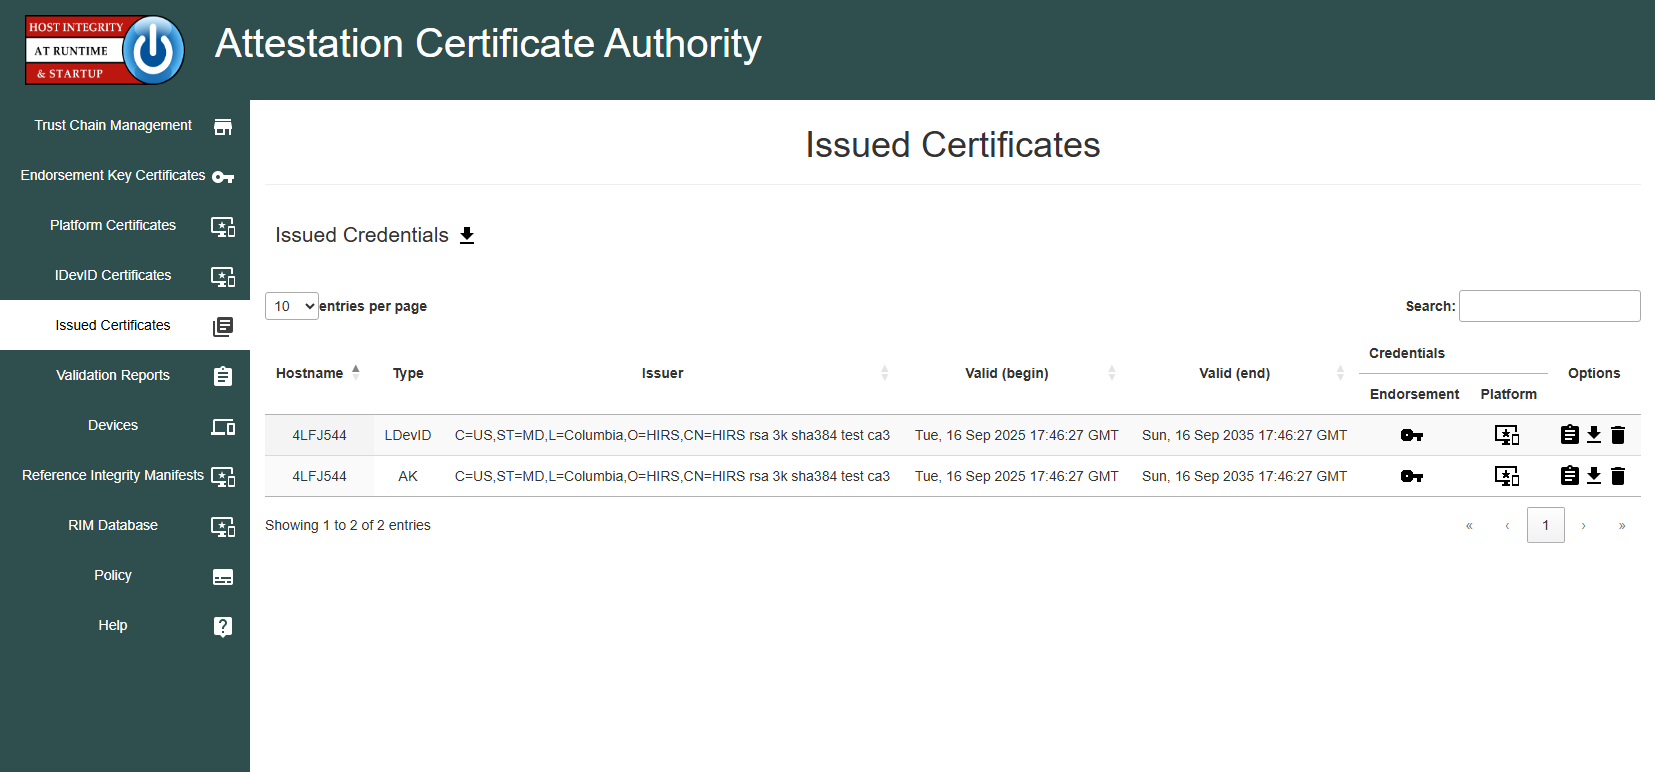
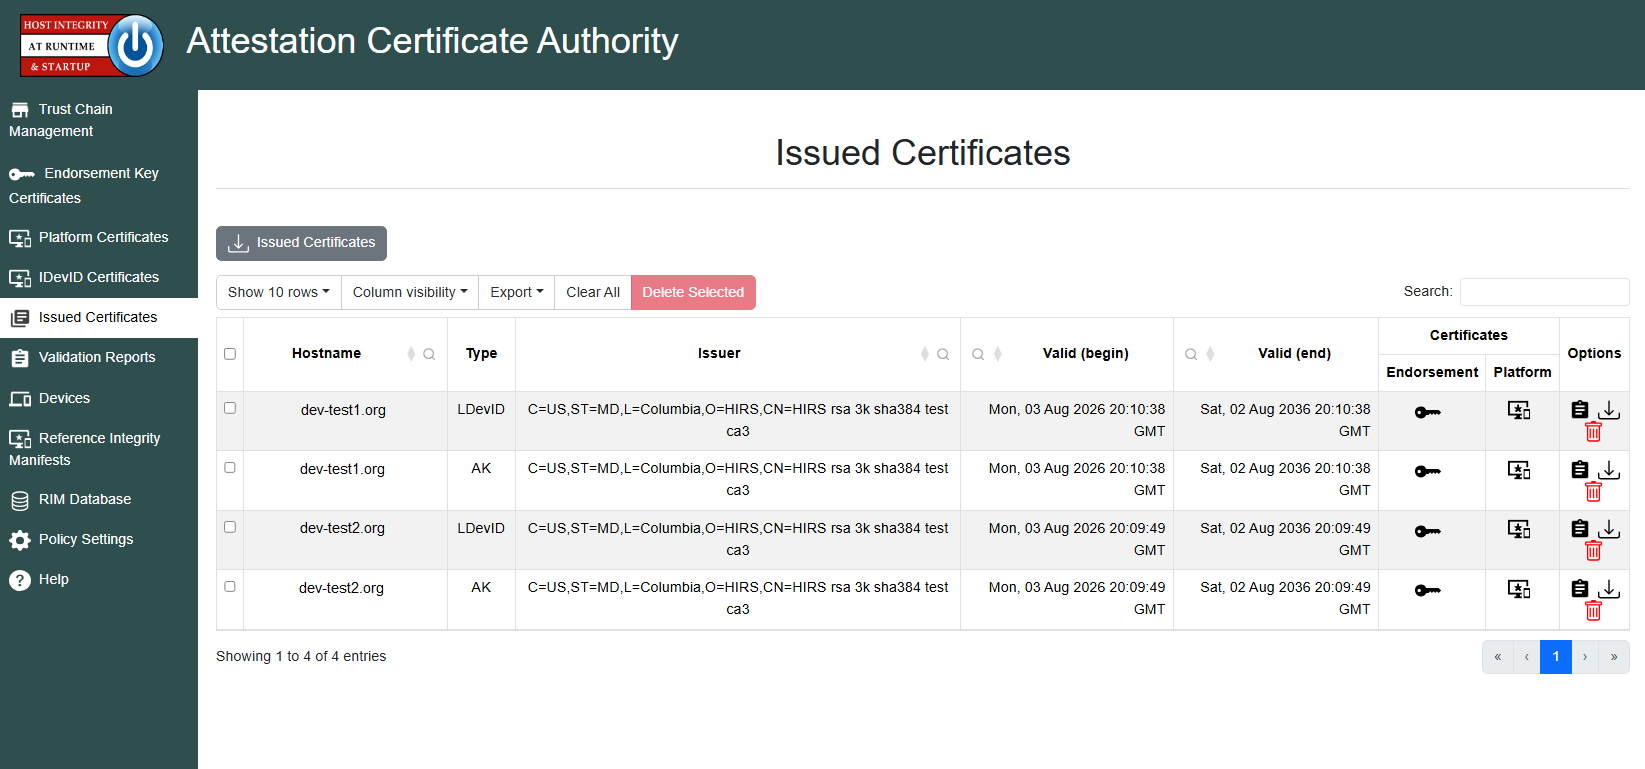
update help docs portal images and component rim page

diff --git a/docs/background/inputs/component.md b/docs/background/inputs/component.md
@@ -143,15 +143,52 @@ The following table shows the relationship between some of the common formats:
   </div>
 </div>
 
-## IETF CoSWID vs TCG Component RIM CoSWID
+## IETF CoSWID
 
-A TCG Component RIM CoSWID is an augmented, specialized flavor of an IETF CoSWID.
-The IETF CoSWID is the base blueprint: It is an industry-wide, generic CBOR structure designed to 
-define any software or firmware footprint of a component. The TCG CoSWID is the extension: The Trusted 
-Computing Group (TCG) took that exact IETF CoSWID map and used built-in CBOR extension points to add 
-specialized hardware attributes (like specific SPDM platform registers or hardware vendor IDs).
+The IETF Concise Software Identification (CoSWID) defined by 
+[RFC 9393 :fontawesome-solid-external-link:](https://datatracker.ietf.org/doc/html/rfc9393){:target="_blank"}
+is a CBOR-encoded, size-optimized reformulation of the 
+ISO/IEC 19770-2 SWID tag. It carries the same semantic model - a globally unique tag identifying
+a software product, its version, the entities responsible for it (creator, distributor, etc.), 
+and optionally payload/evidence data such as file manifests with hashes - but replaces SWID's 
+verbose XML with CDDL-defined CBOR so tags are small enough for constrained devices and can be 
+COSE-signed. It's the base "what software is this" descriptor that other attestation specs 
+build on.
 
-## IETF CoRIM Structure
+## TCG Component RIM CoSWID
+
+The TCG Reference Integrity Manifest family defines how a platform/component vendor publishes the 
+*golden* measurements a Verifier should expect from a TPM-anchored device. The PC Client RIM spec
+defines a 
+[SWID/CoSWID *binding* :fontawesome-solid-external-link:](https://trustedcomputinggroup.org/resource/tcg-component-rim-binding-for-swid-and-coswid/){:target="_blank"}
+: the RIM is expressed as a signed CoSWID whose payload references 
+support RIMs (e.g., canonical TCG Event Logs / PCR reference values) and whose link/meta 
+extensions carry TCG-specific fields (platform manufacturer/model, binding spec version, RIM 
+linkage). In short, it's CoSWID used as the signed envelope for TPM reference measurements so 
+an appraiser can match a Quote + Event Log against vendor-published expected values.
+
+Two examples of TCG Component RIMs are shown below, along with some insight into the bytes in 
+each. The first has a 96-byte COSE signature, and the second has a 384-byte COSE signature.
+
+### TCG Component RIM with 96-byte COSE signature example
+
+<img src= "../../../images/bg-rim-comp-96byteSig.png" alt="Component RIM 96-byte sig" style="border: 2px solid grey;">
+
+### TCG Component RIM with 384-byte COSE signature example
+
+<img src= "../../../images/bg-rim-comp-384byteSig.png" alt="Component RIM 96-byte sig" style="border: 2px solid grey;">
+
+## IETF CoRIM
+
+The Concise Reference Integrity Manifest 
+([CoRIM draft here :fontawesome-solid-external-link:](https://datatracker.ietf.org/doc/draft-ietf-rats-corim/){:target="_blank"})
+, from the IETF RATS working group, generalizes the RIM idea beyond a single TPM-measured component. 
+A CoRIM is a signed CBOR container holding one
+or more CoMID (Concise Module Identifier) and/or CoSWID tags, each expressing reference values, 
+endorsed values, identity/attestation-key material, or conditional endorsements for a 
+target environment. It gives Verifiers a uniform, composable way to ingest reference/endorsement
+data for heterogeneous attesters (TPM, DICE, PSA, Intel TDX/SGX, CCA, etc.) rather than a 
+per-technology format, and is the intended input to a RATS Verifier's appraisal policy.
 
 Since the CoRIM structure is complex, below is a diagram to help visualize it:
 

diff --git a/docs/webportal/portal-trust-chain.md b/docs/webportal/portal-trust-chain.md
@@ -20,27 +20,22 @@ Attestation, Endorsement, or Platform certificate).
 
 <img src= "../../images/portal-trust.png" alt="Portal Trustchain page" style="border: 2px solid grey;">
 
-By default, the ACA generates a certificate chain that is used for verifying all issued 
+The user can upload/download trusted certificates (intermediate and root)
+from all organizations involved with the supply chain via
+buttons at the top left of the page. To download a specific certificate, the user can click on the "
+<img src="../../images/portal-download.png" alt="clipboard" width="20" height="20" style="vertical-align:middle;">
+icon to the far right of that certificate listed.
+
+The user can also view or download the ACA trust chain certificates via buttons at the top left of 
+the page. By default, the ACA generates a certificate chain that is used for verifying all issued 
 Attestation Certificates. An Attestation CA certificate may be signed by a CA and replaced 
 (the ACA certificate would become a subordinate to the root CA). In either case, the CA 
 certificate must be trusted by a TPM Quote appraiser.
 
-Clicking the
-<img src="../../images/portal-clipboard.png" alt="clipboard" width="20" height="20" style="vertical-align:middle;">
-icon next to the “HIRS Attestation CA Certificate” label on the Trust Chain 
-Management page allows a user to view the ACA’s certificates. 
-
-<img src= "../../images/portal-trust-clipboard.png" alt="Portal Trustchain page" class="center" style="border: 2px solid grey;">
-
-This HIRS certificate chain will be required in future processing of TPM Quotes, since TPM Quotes 
-are signed by the TPM’s Attestation Key (AK). For example, selecting the clipboard to view 
-the HIRS certificate chain would look like:
+For example, selecting the "View ACA Certificates" button at the top left will allow the user to 
+select one of the certificates in the chain (root, intermediate, leaf) and view the details: 
 
 <img src= "../../images/portal-trust-hirsroot.png" alt="Portal Trustchain page" style="border: 2px solid grey;">
 
-Clicking the
-<img src="../../images/portal-download.png" alt="clipboard" width="20" height="20" style="vertical-align:middle;">
-icon allows a user to download the ACA's certificates. 
-
-Other CA certificates (from any organization involved with the supply chain) can be uploaded, 
-downloaded, deleted, or viewed using the icon selections next to the "Trust Chain CA Certificates" label. 
+This ACA trust chain certificates will be required in future processing of TPM Quotes, since TPM Quotes
+are signed by the TPM’s Attestation Key. 

diff --git a/docs/webportal/portal-issued-certs.md b/docs/webportal/portal-issued-certs.md
@@ -25,6 +25,4 @@ The user can view the details in the Issued Certificate by clicking the
 <img src="../../images/portal-clipboard.png" alt="clipboard" width="20" height="20" style="vertical-align:middle;">
 icon under the `Options` tab:
 
-<img src= "../../images/portal-issued-clipboard.png" alt="Portal Issued Certificates page" class="center" style="border: 2px solid grey;">
-
 <img src= "../../images/portal-issued-cert.png" alt="Portal Platform Cert page" style="border: 2px solid grey;">
